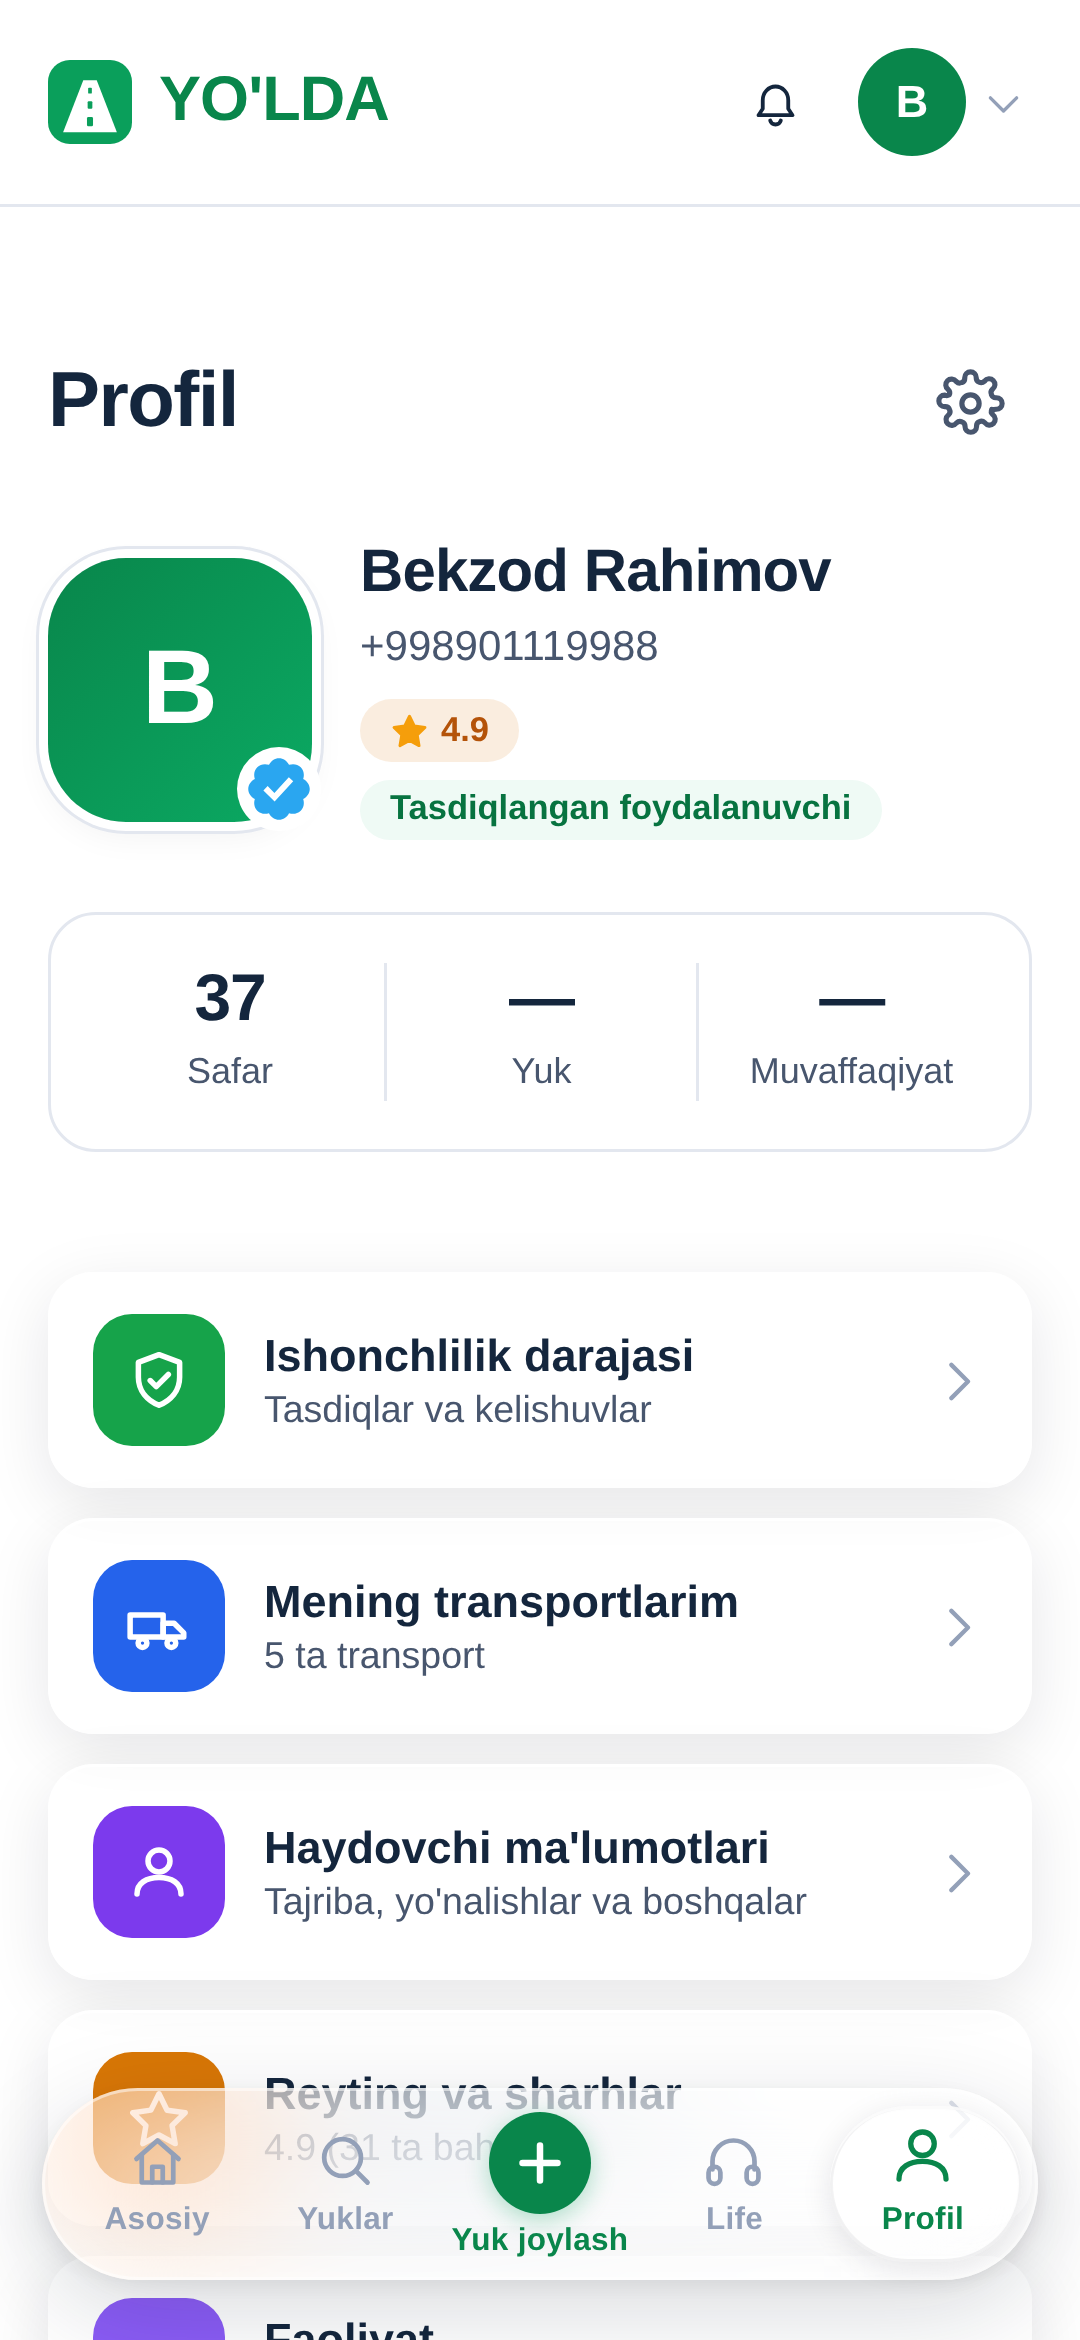
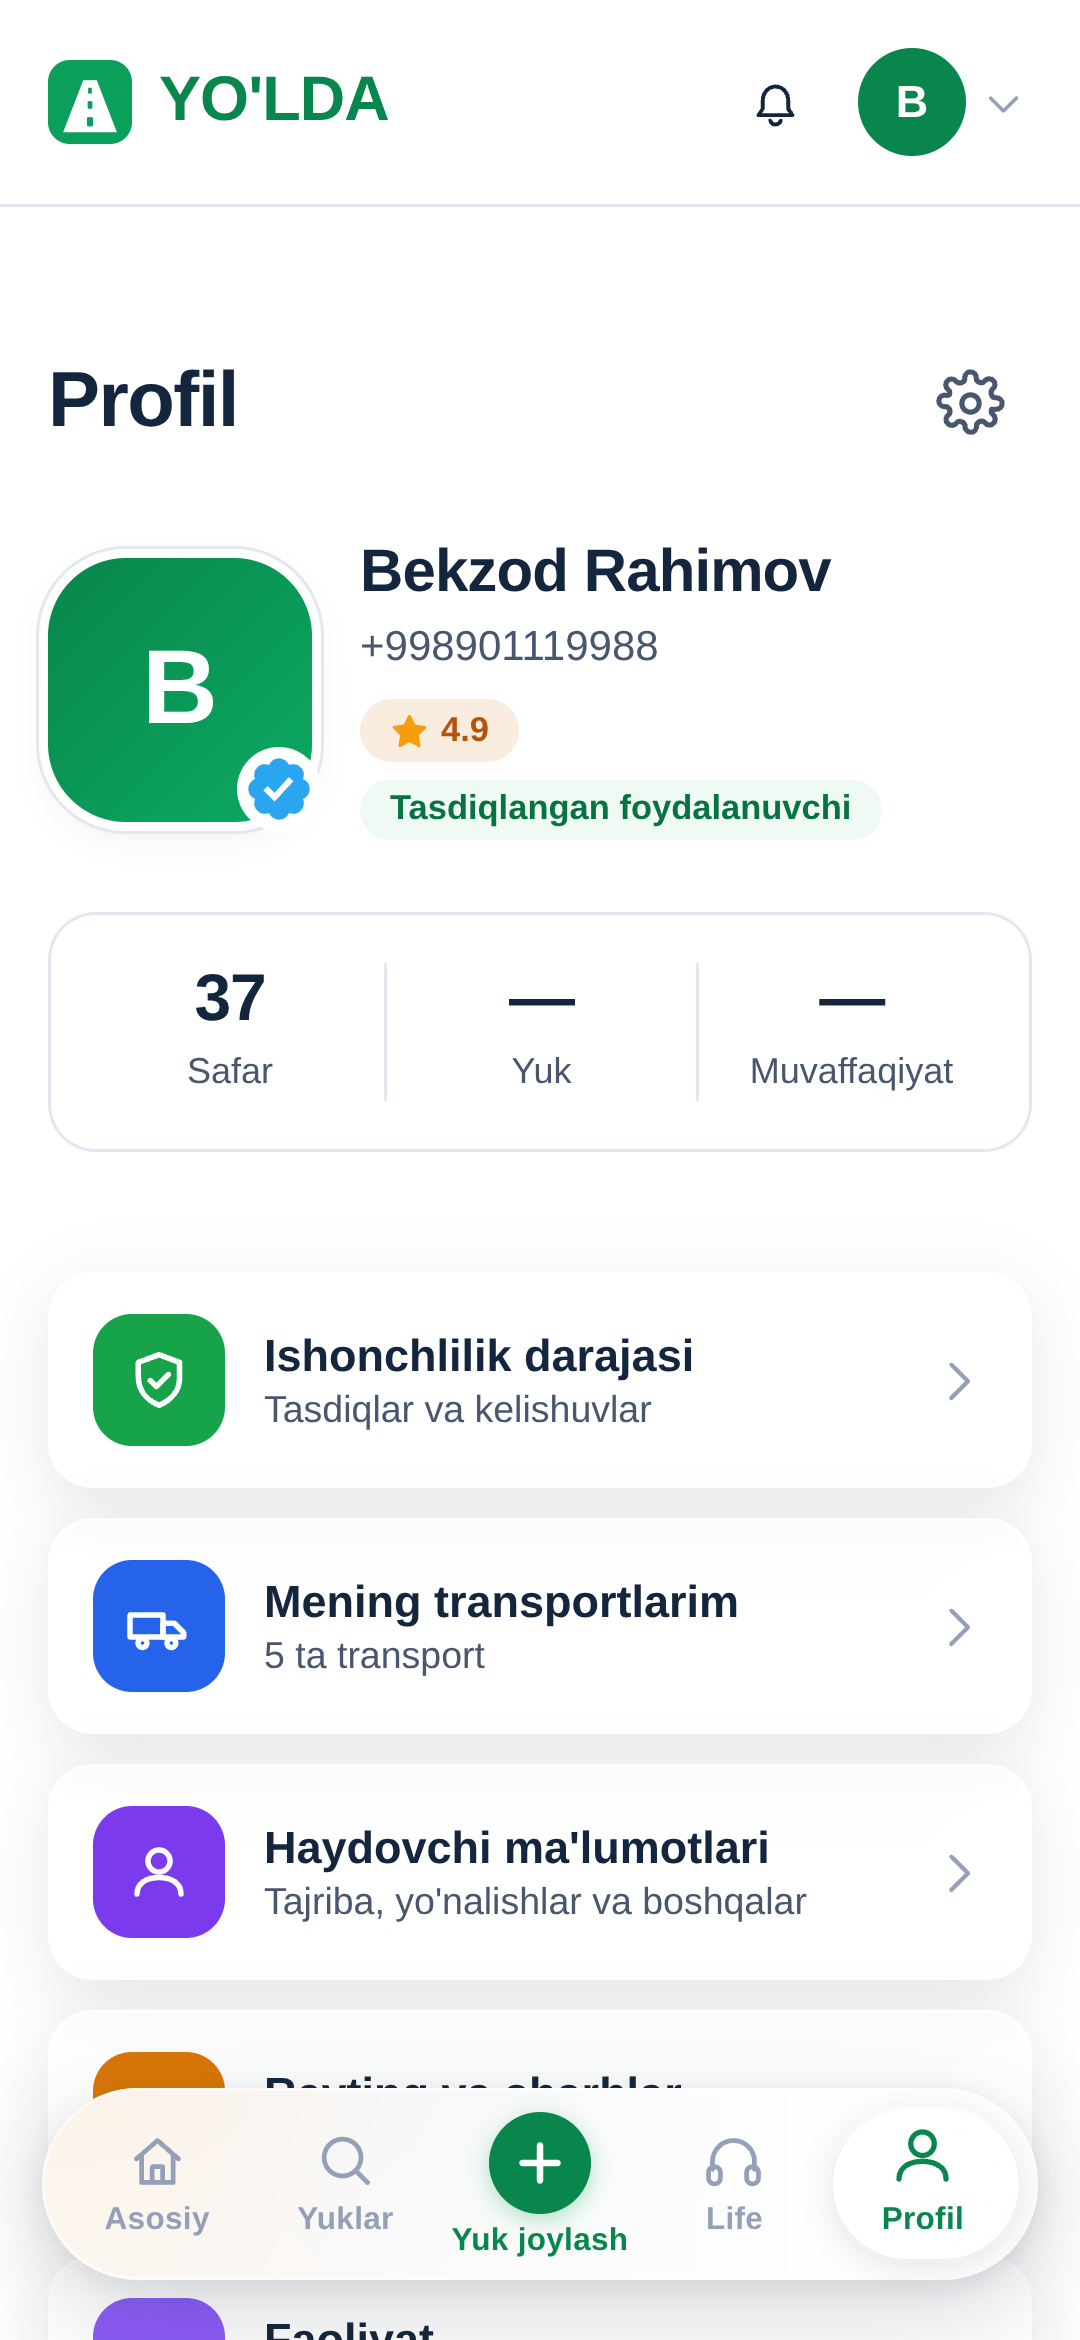
Pastki paneldagi shisha ostidagi rangni yutib yubormasin
Panel ortiga rangli belgi kelib qolsa — masalan Profildagi to'q
sariq "Reyting va sharhlar" — panelning chap uchdan biri jigarrang
dog'ga aylanardi. Shisha emas, bo'yalgan oyna.

Ikkita sabab birga ishlagan:

  saturate(200%)  — ostidagi rangni IKKI BAROBAR to'yintirardi,
                    ya'ni to'q sariq yanada to'q sariq bo'lardi;
  alfa 0.34       — panelning o'z rangi deyarli yo'q, ekranda nima
                    ko'rinsa ham ostidagi narsadan kelardi.

Endi saturate 115% (rang biroz jonli, lekin kuchaymaydi), alfa
0.72/0.76, blur esa 30 dan 40 px ga oshdi — keng blur shaklning
qirrasini yo'qotadi, ya'ni ostidagi kvadratning cheti panel ichida
chiziq bo'lib ko'rinmaydi. Shisha ostidagi narsani eslatadi, lekin
ko'rsatmaydi.

O'lchandi (panel ichidagi piksellarning rangliligi, ostida to'q
sariq belgi turganda):

               eng rangli piksel     o'rtacha
  eski, tun          67                24.4
  yangi, tun         21                 7.8
  eski, kun          68                24.7
  yangi, kun         37                10.4

Shu bilan birga do'kon uchun olingan ekran rasmlari qayta
yasaldi. Ular haqiqiy ilovaga o'xshamay chiqqan ekan: oddiy
headless rejimda `backdrop-filter` UMUMAN chizilmaydi —
CSS.supports "ha" deydi, ekranda esa hech narsa bo'lmaydi. Ya'ni
rasmlarda pastki panelning shishasi yo'q edi. Endi dasturiy GPU
yoqilgan va rasmda ham, telefonda ham bir xil ko'rinadi.

Claude-Session: https://claude.ai/code/session_01BL2CFTnx3vp2dkHynyCztG

diff --git a/index.html b/index.html
@@ -184,10 +184,15 @@
     --chrome-glass:rgba(255,255,255,0.62);
     --chrome-solid:rgba(255,255,255,0.94);
     --chrome-brd:rgba(255,255,255,0.55);
-    /* Pastki panel sarlavhadan ko'ra shaffofroq: u sahifaning ustida
-       suzib turadi va ostidagi kontent ko'rinib tursin. Xiralashtirish
-       kuchliroq, shuning uchun yozuv baribir o'qiladi. */
-    --nav-glass:rgba(255,255,255,0.34);
+    /* Pastki panel sahifaning ustida suzib turadi va ostidagi kontent
+       xiralashib bilinib turadi.
+
+       Ilgari bu 0.34 edi — ya'ni panelning o'z rangi deyarli yo'q, nima
+       ko'rinsa ham ostidagi narsadan kelardi. Ostiga to'q sariq belgi
+       (masalan "Reyting va sharhlar") kelib qolsa, panelning uchdan
+       biri to'q sariq dog'ga aylanardi. Shisha ostidagi narsani
+       ESLATIShi kerak, uni ko'rsatishi emas. */
+    --nav-glass:rgba(255,255,255,0.72);
     --nav-solid:rgba(255,255,255,0.92);
     --nav-brd:rgba(255,255,255,0.5);
     --nav-lens:rgba(255,255,255,0.55);
@@ -266,7 +271,7 @@
     --chrome-glass:rgba(8,8,8,0.62);
     --chrome-solid:rgba(8,8,8,0.96);
     --chrome-brd:rgba(255,255,255,0.10);
-    --nav-glass:rgba(12,12,12,0.34);
+    --nav-glass:rgba(14,14,14,0.76);
     --nav-solid:rgba(10,10,10,0.94);
     --nav-brd:rgba(255,255,255,0.12);
     --nav-lens:rgba(255,255,255,0.14);
@@ -699,8 +704,15 @@
     display:flex;align-items:center;
     border-radius:999px;
     background:var(--nav-glass);
-    -webkit-backdrop-filter:saturate(200%) blur(30px);
-    backdrop-filter:saturate(200%) blur(30px);
+    /* `saturate` ataylab past. 200% da ostidagi rangli belgi ikki
+       barobar to'yinib, panelni bo'yab yuborardi: to'q sariq kvadrat
+       ustidan o'tganda panelning chap uchdan biri jigarrang dog'
+       bo'lib qolardi. 115% — rang biroz jonli, lekin kuchaymaydi.
+       Xiralashtirish esa oshirildi: keng blur shaklning qirrasini
+       yo'qotadi, ya'ni ostidagi kvadratning cheti panel ichida
+       chiziq bo'lib ko'rinmaydi. */
+    -webkit-backdrop-filter:saturate(115%) blur(40px);
+    backdrop-filter:saturate(115%) blur(40px);
     border:1px solid var(--nav-brd);
     box-shadow:0 10px 34px rgba(15,23,42,0.16), 0 2px 8px rgba(15,23,42,0.06);
     padding:0 6px;
